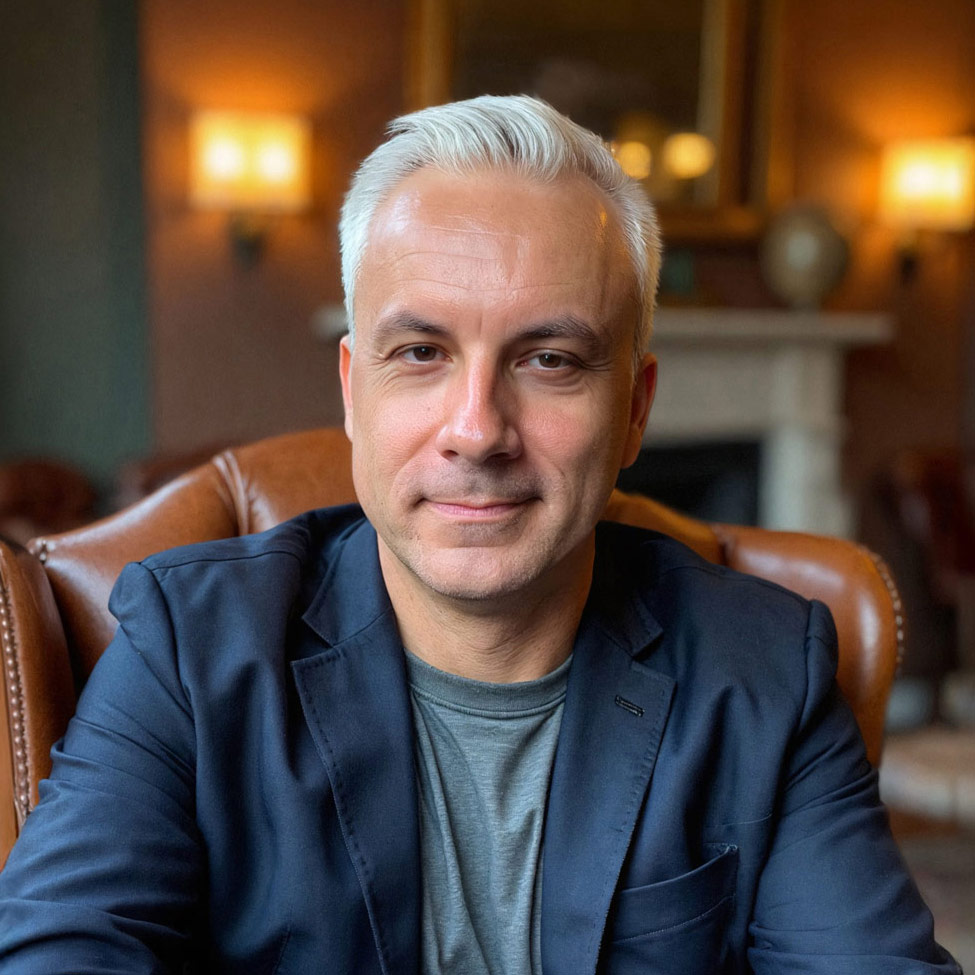
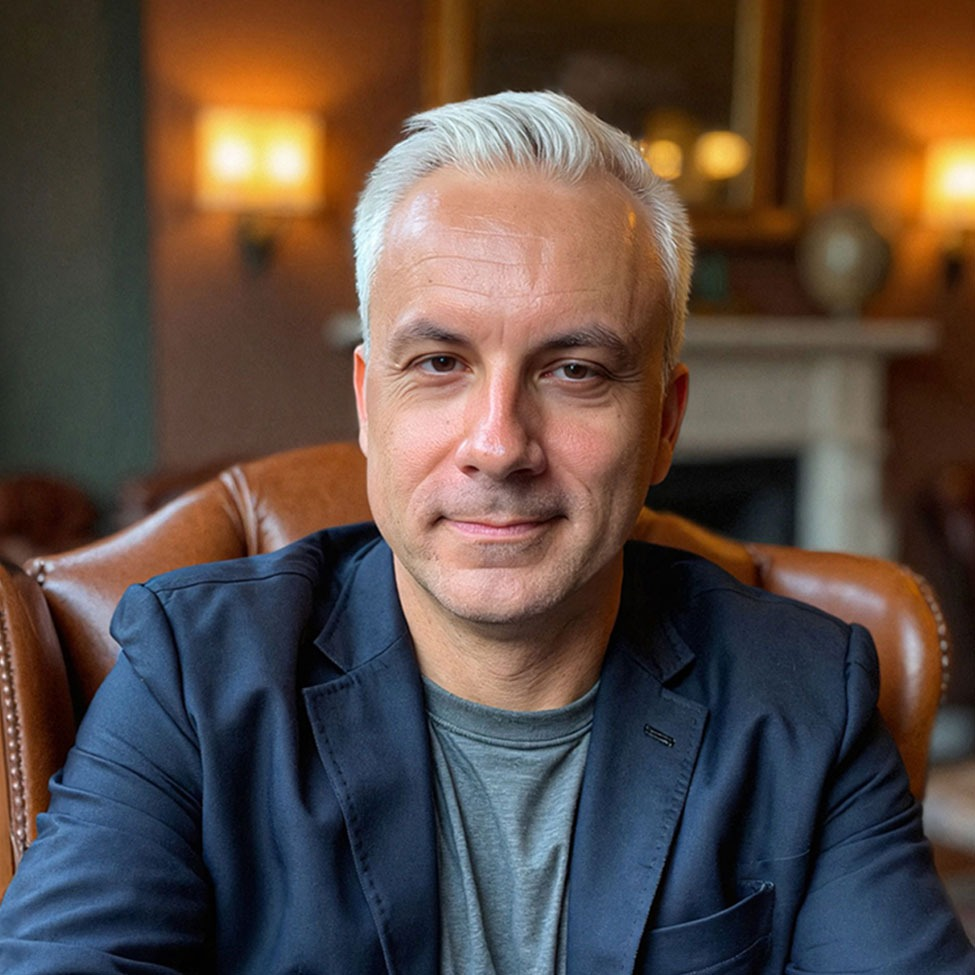
Replace bio image; connect contact form to Web3Forms with async submit, validation, honeypot, and status messaging

diff --git a/index.html b/index.html
@@ -361,11 +361,16 @@
               <a href="https://jonrenner.com" target="_blank" rel="noopener" style="color:{{ t.text }}; font-weight:600;">JonRenner.com</a>
             </div>
           </div>
-          <form onsubmit="event.preventDefault();" style="display:flex; flex-direction:column; gap:14px; background:{{ t.cardBg }}; border:1px solid {{ t.border }}; border-radius:14px; padding:30px;">
-            <input type="text" placeholder="Your name" style="font-family:inherit; font-size:14px; padding:12px 14px; border-radius:9px; border:1px solid {{ t.border }}; background:transparent; color:{{ t.text }};">
-            <input type="email" placeholder="[email redacted]" style="font-family:inherit; font-size:14px; padding:12px 14px; border-radius:9px; border:1px solid {{ t.border }}; background:transparent; color:{{ t.text }};">
-            <textarea rows="4" placeholder="Tell me about your project" style="font-family:inherit; font-size:14px; padding:12px 14px; border-radius:9px; border:1px solid {{ t.border }}; background:transparent; color:{{ t.text }}; resize:vertical;"></textarea>
+          <form id="contact-form" style="display:flex; flex-direction:column; gap:14px; background:{{ t.cardBg }}; border:1px solid {{ t.border }}; border-radius:14px; padding:30px;">
+            <input type="hidden" name="access_key" value="ff854642-9833-4908-9dd4-74cd5730d164">
+            <input type="hidden" name="subject" value="New inquiry from JonRenner.com">
+            <input type="hidden" name="from_name" value="JonRenner.com">
+            <input type="checkbox" name="botcheck" style="display:none" tabindex="-1" autocomplete="off">
+            <input type="text" name="name" placeholder="Your name" required="required" style="font-family:inherit; font-size:14px; padding:12px 14px; border-radius:9px; border:1px solid {{ t.border }}; background:transparent; color:{{ t.text }};">
+            <input type="email" name="email" placeholder="[email redacted]" required="required" style="font-family:inherit; font-size:14px; padding:12px 14px; border-radius:9px; border:1px solid {{ t.border }}; background:transparent; color:{{ t.text }};">
+            <textarea rows="4" name="message" placeholder="Tell me about your project" required="required" style="font-family:inherit; font-size:14px; padding:12px 14px; border-radius:9px; border:1px solid {{ t.border }}; background:transparent; color:{{ t.text }}; resize:vertical;"></textarea>
             <button type="submit" style="font-family:inherit; font-size:13px; letter-spacing:0.06em; text-transform:uppercase; font-weight:700; padding:14px; border:none; border-radius:100px; background:{{ t.accent }}; color:{{ t.accentText }}; cursor:pointer;">Send Message</button>
+            <div id="contact-status" role="status" aria-live="polite" style="font-size:13px; line-height:1.5; min-height:0;"></div>
           </form>
         </div>
         </div>
@@ -859,6 +864,66 @@ class Component extends DCLogic {
       removeGalleryImage: this.removeGalleryImage };
   }
 }
+</script>
+<script>
+(function () {
+  document.addEventListener('submit', function (e) {
+    var form = e.target;
+    if (!form || form.id !== 'contact-form') return;
+    e.preventDefault();
+
+    var btn = form.querySelector('button[type="submit"]');
+    var status = form.querySelector('#contact-status');
+    if (!btn || !status) return;
+    if (form.dataset.submitting === '1') return;
+
+    // Honeypot: silently ignore bot submissions
+    var honey = form.querySelector('input[name="botcheck"]');
+    if (honey && honey.checked) return;
+
+    form.dataset.submitting = '1';
+    var originalText = btn.textContent;
+    btn.disabled = true;
+    btn.style.opacity = '0.7';
+    btn.style.cursor = 'default';
+    btn.textContent = 'Sending\u2026';
+    status.textContent = '';
+    status.style.color = '';
+
+    var formData = new FormData(form);
+
+    fetch('https://api.web3forms.com/submit', {
+      method: 'POST',
+      headers: { Accept: 'application/json' },
+      body: formData
+    })
+      .then(function (res) { return res.json().then(function (json) { return { ok: res.ok, json: json }; }); })
+      .then(function (result) {
+        form.dataset.submitting = '0';
+        btn.disabled = false;
+        btn.style.opacity = '';
+        btn.style.cursor = 'pointer';
+        btn.textContent = originalText;
+        if (result.ok && result.json && result.json.success) {
+          status.textContent = 'Thanks! Your message has been sent.';
+          status.style.color = '#4ADE80';
+          form.reset();
+        } else {
+          status.textContent = 'Something went wrong. Please try again.';
+          status.style.color = '#F87171';
+        }
+      })
+      .catch(function () {
+        form.dataset.submitting = '0';
+        btn.disabled = false;
+        btn.style.opacity = '';
+        btn.style.cursor = 'pointer';
+        btn.textContent = originalText;
+        status.textContent = 'Something went wrong. Please try again.';
+        status.style.color = '#F87171';
+      });
+  });
+})();
 </script>
 </body>
 </html>